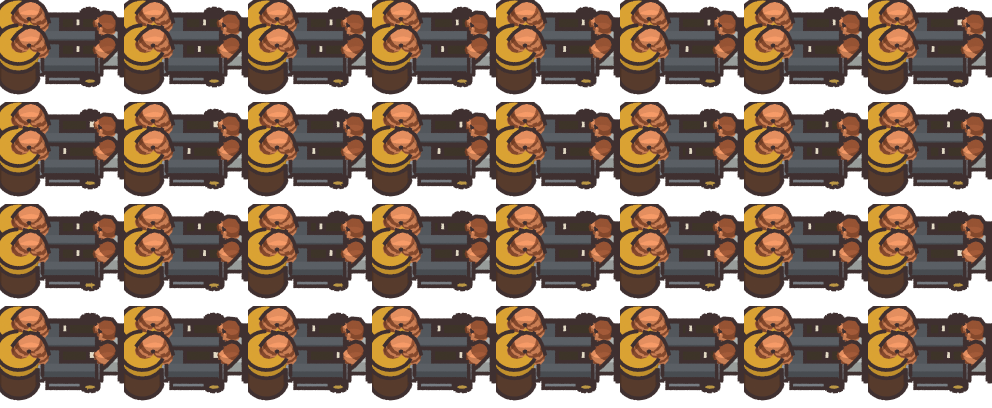
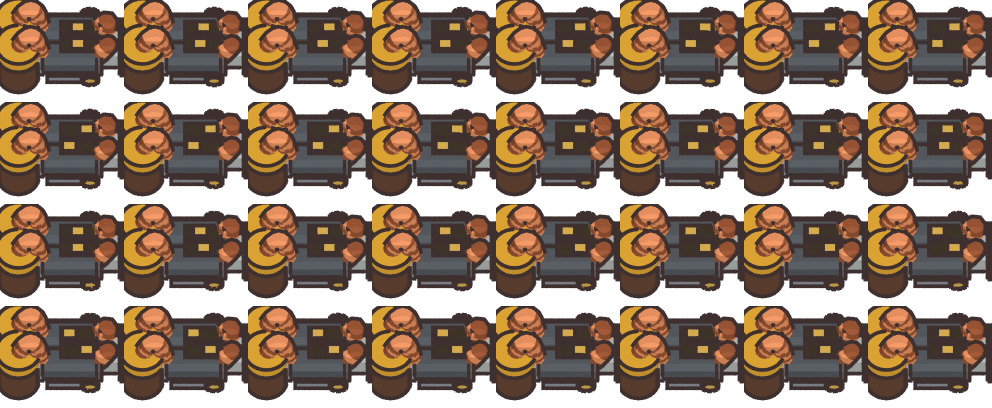
Chaudière, pompe côtière et galerie : raccords, pistons, vrais tuyaux
- Chaudière : embouts des raccords (eau des deux côtés, vapeur au fond) faits du tube et
  de la bride du tuyau, au bord de la case et calés à l'écran sur le tuyau voisin ;
  réservoirs latéraux raccourcis pour que l'embout se voie.
- Pompe côtière : gros pistons laiton en opposition ; calque d'eau des fenêtres généré
  depuis notre rendu (fenêtres découpées autour des pistons) au lieu de l'original seuillé
  qui scintillait ; fenêtres resserrées dans le cadre du calque de fluide.
- Galerie : plus de tuyaux infinis (bleus, débit maximal) ; sources et puits de fluide
  sur de vrais tuyaux tenus par le script, débit réaliste ; deux tuyaux par raccord de
  chaudière ; gros plans x2 des zones énergie et tuyaux pour le banc.

diff --git a/cartoon/blender/offshore_pump.py b/cartoon/blender/offshore_pump.py
@@ -9,8 +9,8 @@ Usage : python cartoon/blender/offshore_pump.py <dossier_sortie> [direction[,dir
   offshore-pump_<D>-shadow.png      32 ombres, noires unies
   offshore-pump_<D>-legs.png        pieds posés sur la berge (calque du sol, dessiné sous la pompe)
   offshore-pump_<D>-underwater.png  bas du réservoir sous l'eau (dessiné sous la surface de l'eau)
-  offshore-pump_<D>-fluid.png       eau dans les fenêtres des cylindres : forme de l'original, en aplats (le jeu
-                                    la teinte de la couleur du fluide)
+  offshore-pump_<D>-fluid.png       eau dans les fenêtres des cylindres, 32 images : nos fenêtres découpées autour
+                                    des pistons, en aplat gris (le jeu la teinte de la couleur du fluide)
   offshore-pump_<D>-glass.png       reflets des vitres, en aplats
   offshore-pump.png (icône)         64 px + mipmaps
 Le reflet dans l'eau (fichier technique) et les restes (lot 3.9) sont laissés d'origine.
@@ -114,12 +114,21 @@ def bezier(p0, p1, p2, n=10):
     return [tuple((1 - t) ** 2 * p0 + 2 * (1 - t) * t * p1 + t ** 2 * p2) for t in np.linspace(0, 1, n)]
 
 
-def mats():
+WINDOW = (0.24, 0.15)               # fenêtres : largeur, écart de leur centre à l'axe de la pompe (cases) ; les deux
+                                    # doivent tenir dans le cadre du calque de fluide (40 px = 0,625 case)
+PISTON = (0.19, 0.22)               # piston : largeur et longueur (cases)
+WINDOW_MASK, PISTON_MASK = (1.0, 0.0, 1.0), (0.0, 1.0, 0.0)    # couleurs repères de la passe « masque »
+FLUID_TONE = 170                    # gris de l'eau des fenêtres (le jeu la teinte de la couleur du fluide)
+
+
+def mats(mask=False):
+    """Matériaux ; `mask` : fenêtres et pistons en couleurs repères, pour découper le calque de fluide."""
     return dict(
+        window=mat("window", WINDOW_MASK if mask else P["dark"]),
         tank=mat("tank", P["pump_tank"]), rim=mat("rim", P["pump_yellow"]), dark=mat("dark", P["dark"]), iron=mat("iron", P["dark_grey"]),
         frame=mat("frame", P["iron"]), copper=mat("copper", P["brown"]), pipe=mat("pipe", P["engine_pipe"]),
         hose=mat("hose", P["pump_hose"]), hose_dark=mat("hose_dark", P["pump_hose_dark"]),
-        piston=mat("piston", P["white"]), brass=mat("brass", P["yellow"]), rust=mat("rust", P["engine_rust"]),
+        piston=mat("piston", PISTON_MASK if mask else P["yellow"]), brass=mat("brass", P["yellow"]), rust=mat("rust", P["engine_rust"]),
     )
 
 
@@ -186,16 +195,18 @@ def body(m, d, phase, direction):
         cyl((s * xt, yt, zt / 2), rt, zt, m["tank"], verts=32)
         cyl((s * xt, yt, zt - 0.11), rt + 0.03, 0.26, m["rim"], verts=32)
         cyl((s * xt, yt, zt - 0.02), rt * 0.72, 0.06, m["dark"], verts=32)
-    # cylindres couchés : corps sombre, cerclages, fenêtre sombre sur le dessus, piston clair qui va et vient
+    # cylindres couchés : corps sombre, cerclages, fenêtre sur le dessus (le jeu y dessine l'eau, calque de fluide),
+    # gros piston laiton qui va et vient dans la fenêtre, les deux cylindres en opposition
     for s, ph in ((-1, 0.0), (1, 0.5)):
         x = s * xk
         cyl((x, (yk0 + yk1) / 2, zk), rk, yk1 - yk0, m["iron"], verts=24, rot=(90, 0, 0))
         for y in (yk0 + 0.04, yk1 - 0.04):
             cyl((x, y, zk), rk + 0.025, 0.07, m["frame"], verts=24, rot=(90, 0, 0))
         w0, w1 = window_span(direction, d)
-        box((x, (w0 + w1) / 2, zk + rk - 0.02), (rk * 0.9, w1 - w0, 0.06), m["dark"])
-        travel = (w1 - w0 - 0.12) / 2 * math.sin(2 * math.pi * (phase + ph))
-        box((x, (w0 + w1) / 2 + travel, zk + rk), (rk * 0.7, 0.1, 0.06), m["piston"])
+        xw = s * WINDOW[1]
+        box((xw, (w0 + w1) / 2, zk + rk - 0.02), (WINDOW[0], w1 - w0, 0.06), m["window"])
+        travel = (w1 - w0 - PISTON[1] - 0.04) / 2 * math.sin(2 * math.pi * (phase + ph))
+        box((xw, (w0 + w1) / 2 + travel, zk + rk + 0.01), (PISTON[0], PISTON[1], 0.08), m["piston"])
     # flasques à engrenages sur les côtés
     a = phase * 360
     for s in (-1, 1):
@@ -219,13 +230,13 @@ def body(m, d, phase, direction):
     cyl((0, yf - 0.005, rf), rf * 0.82, 0.02, m["pipe"], verts=32, rot=(90, 0, 0))  # face claire
 
 
-def build(direction="N", phase=0.0, part="sprite", d=None):
+def build(direction="N", phase=0.0, part="sprite", d=None, mask=False):
     """Scène d'une direction : `part` = sprite (la pompe), legs, underwater, ou all (icône, ombre)."""
     import bpy
     from mathutils import Matrix
     reset()
     d = d or DIMS
-    m = mats()
+    m = mats(mask)
     if part in ("sprite", "all"):
         body(m, d, phase, direction)
     if part in ("legs", "all"):
@@ -243,10 +254,22 @@ def camera_shift(d=None):
     return (d or DIMS)["down"] * PX_PER_TILE / CANVAS
 
 
-def render(direction, phase, part, path):
-    build(direction, phase, part)
+def render(direction, phase, part, path, mask=False):
+    build(direction, phase, part, mask=mask)
     render_scene(path, size=CANVAS, scale=CANVAS / PX_PER_TILE, outline_units=OUTLINE, shift_y=camera_shift())
     return load(path)
+
+
+def fluid_frame(direction, phase, path, cell):
+    """Eau des fenêtres pour une image : les pixels de fenêtre visibles (passe « masque »), autour des pistons, en
+    aplat gris. Le jeu dessine ce calque par-dessus la pompe : il doit épouser nos fenêtres et laisser voir les
+    pistons."""
+    im = crop_centered(render(direction, phase, "sprite", path, mask=True), *cell).astype(np.int32)
+    b, g, r, a = im[..., 0], im[..., 1], im[..., 2], im[..., 3]
+    win = (a > 200) & (r > 60) & (b > 60) & (g < 0.35 * np.minimum(r, b))
+    out = np.zeros(im.shape[:2] + (4,), np.uint8)
+    out[win] = (FLUID_TONE, FLUID_TONE, FLUID_TONE, 255)
+    return out
 
 
 def flat(im, levels=2):
@@ -285,7 +308,8 @@ def render_direction(direction, out, cells, preview=False):
     for part in ("legs", "underwater"):
         cv2.imwrite(entity_path(out, NAME, f"{pre}-{part}.png"), crop_centered(render(direction, 0, part, path),
                                                                                 *c[part]))
-    cv2.imwrite(entity_path(out, NAME, f"{pre}-fluid.png"), flat(original(f"{pre}-fluid.png")))
+    fluid = [fluid_frame(direction, i / N_FRAMES, path, c["fluid"]) for i in range(n)]
+    cv2.imwrite(entity_path(out, NAME, f"{pre}-fluid.png"), sheet(fluid * (N_FRAMES if preview else 1), COLUMNS))
     glass = flat(original(f"{pre}-glass.png"), 1)
     glass[:, :, 3] = (glass[:, :, 3] * 0.6).astype(np.uint8)
     cv2.imwrite(entity_path(out, NAME, f"{pre}-glass.png"), glass)

diff --git a/cartoon/blender/boiler.py b/cartoon/blender/boiler.py
@@ -23,7 +23,8 @@ import numpy as np
 
 sys.path.insert(0, os.path.dirname(os.path.abspath(__file__)))
 import style as S
-from lib import (box, crop_centered, cyl, entity_path, load, mat, render_scene, render_shadow, reset, rod,
+import pipe as PIPE
+from lib import (box, crop_centered, cyl, entity_path, load, mat, render_scene, render_shadow, reset,
                  save_icon)
 
 P = S.PALETTE
@@ -49,6 +50,7 @@ DIMS = dict(
     rt=0.5, yt=-0.425, zt=0.6,             # réservoirs latéraux (porteurs des raccords d'eau) : rayon, centre (y, z)
     down=0.33,                             # décalage de tout le dessin vers le bas de l'écran (comme les originaux)
     chim=2.625,                            # hauteur de la cheminée
+    tank_end=1.08,                         # bout des réservoirs (le tuyau du raccord en sort jusqu'au bord, à 1,5)
 )
 # bornes de l'ajustement : au-delà, tambour et réservoirs se fondent en un seul cylindre et la silhouette en
 # gradins (tambour haut au centre, réservoirs bas aux bouts) disparaît
@@ -186,10 +188,9 @@ def build(direction="N", d=None):
     for s in (-1, 1):
         cyl((s * (L / 2 - 0.1), yc, zc), R + 0.03, 0.08, copper, verts=40, rot=(0, 90, 0))   # cerclages
         # réservoir latéral, raccord d'eau sur la rangée avant (y = -0,5 dans Blender) et sa bride
-        cyl((s * (L / 2 + 1.32) / 2, yt, zt), rt, 1.32 - L / 2 + 0.1, body, verts=32, rot=(0, 90, 0))
-        cyl((s * 1.32, yt, zt), rt + 0.03, 0.06, copper, verts=32, rot=(0, 90, 0))
-        rod((s * 1.3, -0.5, 0.36), (s * 1.44, -0.5, 0.36), 0.19, body, verts=24)
-        cyl((s * 1.45, -0.5, 0.36), 0.26, 0.07, copper, verts=24, rot=(0, 90, 0))   # bride
+        te = d["tank_end"]
+        cyl((s * (L / 2 + te) / 2, yt, zt), rt, te - L / 2 + 0.1, body, verts=32, rot=(0, 90, 0))
+        cyl((s * te, yt, zt), rt + 0.03, 0.06, copper, verts=32, rot=(0, 90, 0))
     brass = mat("brass", P["yellow"])
     # trappe du foyer sur le tambour : cadre laiton, platine cuivre aux trois fentes peintes (dans le cadre des
     # flammes du jeu)
@@ -229,6 +230,29 @@ def build(direction="N", d=None):
     for o in bpy.context.scene.objects:
         if o.parent is None:
             o.matrix_world = rot @ o.matrix_world
+    connectors(direction, d)
+
+
+# raccords du prototype pour le nord (cases, y vers le sud comme dans le jeu) : position, direction vers l'extérieur
+CONNECTIONS = [((-1, 0.5), (-1, 0)), ((1, 0.5), (1, 0)), ((0, -0.5), (0, -1))]   # eau, eau, vapeur
+STUB = 0.75                                  # longueur de l'embout, du bord de la case vers l'intérieur
+
+
+def connectors(direction, d=None):
+    """Embouts des raccords : le tube et la bride du tuyau (pipe.py), au bord de la case, posés dans le repère du
+    monde après la rotation : à l'écran, ils tombent exactement sur ceux d'un tuyau voisin. Le tuyau est dessiné
+    `pipe.DIMS["yc"]` plus au sud que sa case, la chaudière `down` plus bas à l'écran : on décale l'embout d'autant."""
+    d = d or DIMS
+    pd, m = PIPE.DIMS, PIPE.mats()
+    k = {"N": 0, "E": 1, "S": 2, "W": 3}[direction]
+    dy = pd["yc"] + d["down"]                # le sol est étiré en y par render_scene : 1 case au sol = 1 case à l'écran
+    for (px, py), (vx, vy) in CONNECTIONS:
+        for _ in range(k):                   # quart de tour horaire dans le repère du jeu
+            px, py, vx, vy = -py, px, -vy, vx
+        out = np.array((vx, -vy, 0.0))       # repère de Blender : y vers le nord
+        edge = np.array((px, -py + dy, pd["r"])) + out * 0.5
+        PIPE.tube_path([tuple(edge), tuple(edge - out * STUB)], pd["r"], m["tube"])
+        PIPE.flange(tuple(edge), (-vx, vy), pd, m)
 
 
 def camera_shift(d=None):
